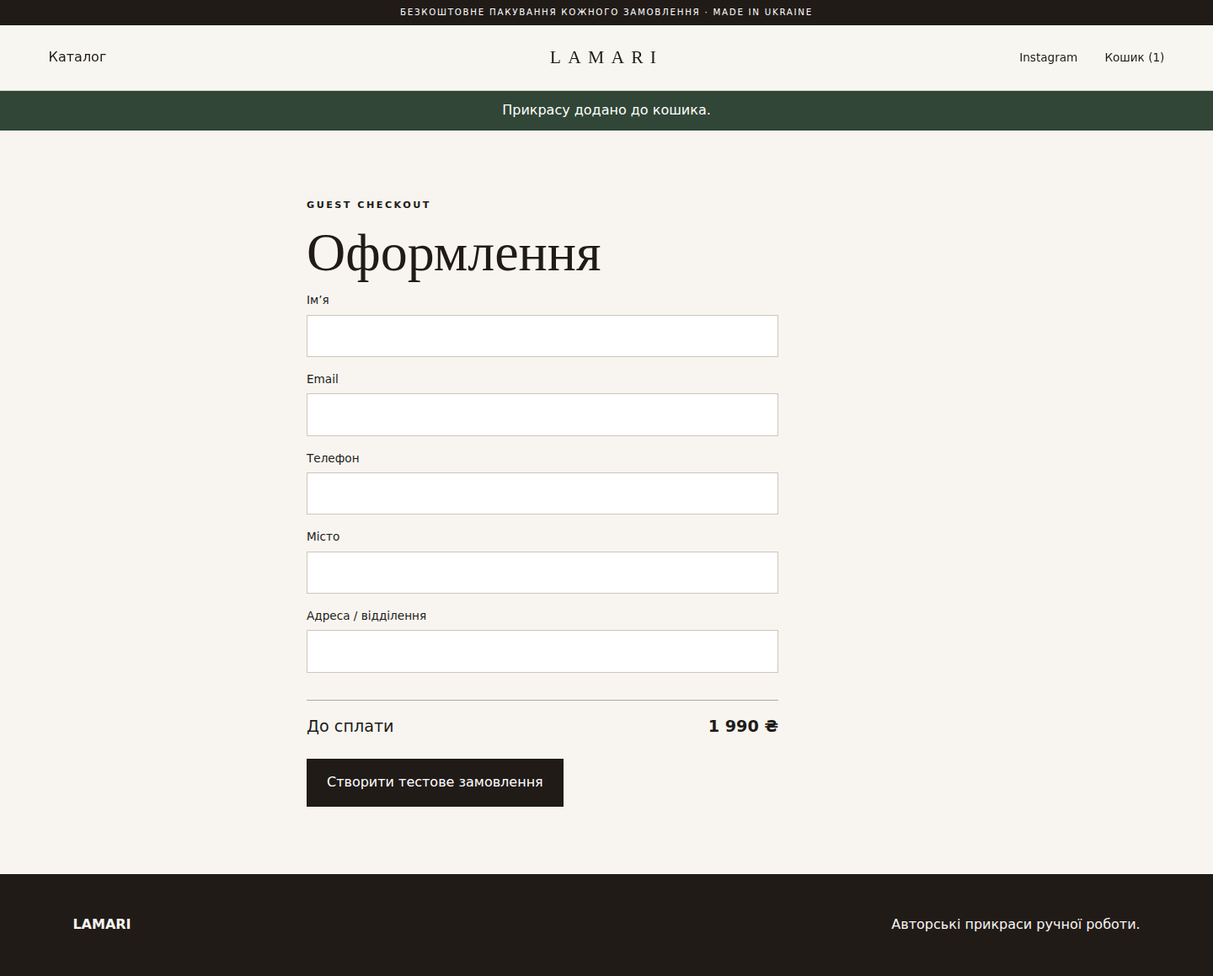
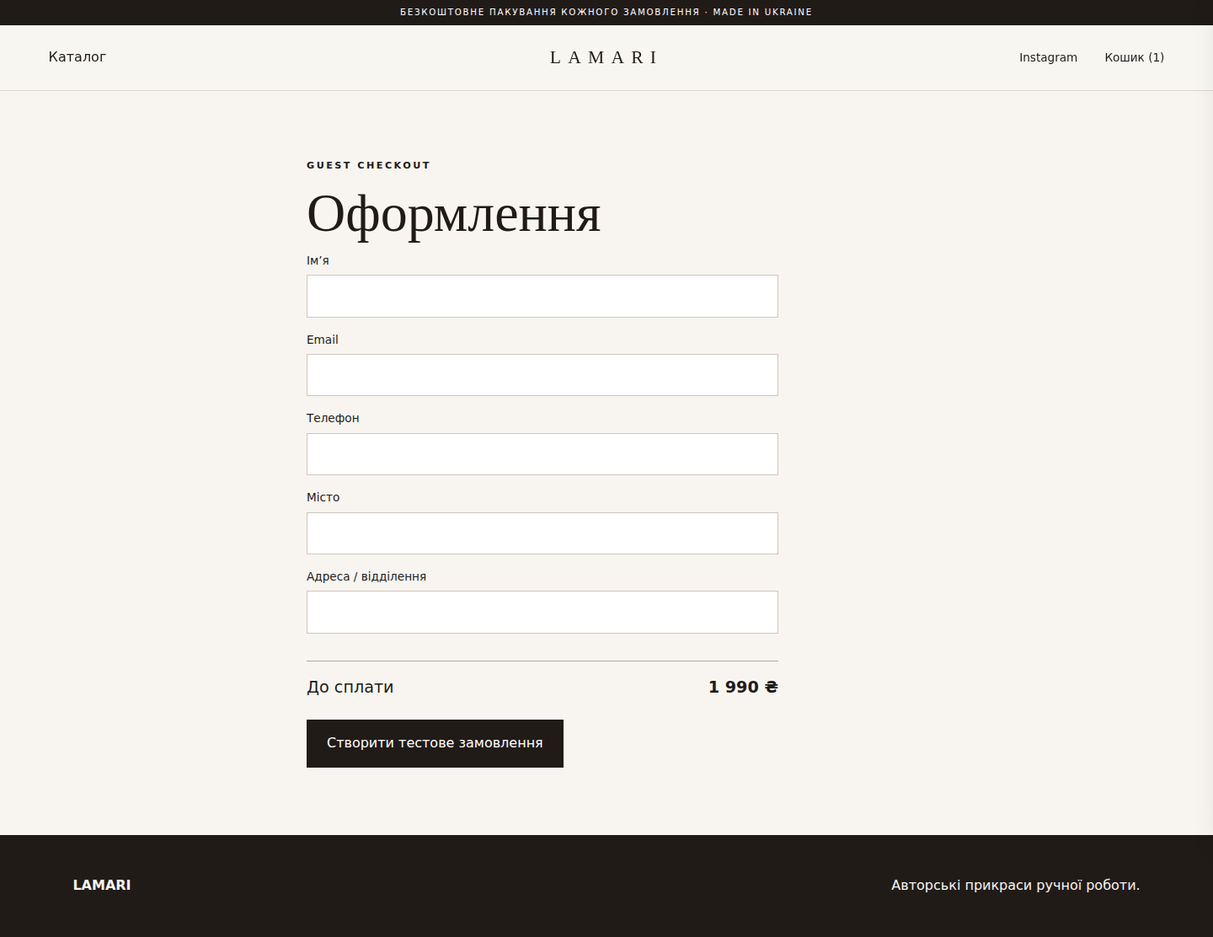
feat: add The Lace-inspired cart drawer

diff --git a/resources/css/app.css b/resources/css/app.css
@@ -1,2 +1,3 @@
 @import "tailwindcss";
 :root{font-family:Inter,system-ui,sans-serif;color:#201b18;background:#f8f5f0;line-height:1.55}*{box-sizing:border-box}body{margin:0}a{color:inherit;text-decoration:none}.ticker{text-align:center;background:#211b18;color:white;padding:.45rem;font-size:.64rem;letter-spacing:.17em}header{height:78px;display:grid;grid-template-columns:1fr auto 1fr;align-items:center;padding:0 4vw;border-bottom:1px solid #ddd4c9;background:#f8f5f0ed;position:sticky;top:0;z-index:20;backdrop-filter:blur(12px)}.brand{font-family:Georgia,serif;letter-spacing:.38em;font-size:1.35rem}.menu-trigger,.drawer-close{border:0;background:transparent;text-align:left;cursor:pointer;font:inherit}nav{display:flex;justify-content:flex-end;gap:2rem;font-size:.85rem}.catalog-drawer{position:fixed;inset:0;background:#f8f5f0;z-index:30;transform:translateY(-105%);transition:.35s ease;overflow:auto;padding:2rem 5vw}.catalog-drawer.open{transform:none}.drawer-close{display:block;margin-left:auto}.drawer-grid{display:grid;grid-template-columns:repeat(4,1fr);gap:3rem;padding:3rem 0}.drawer-grid section{display:flex;flex-direction:column;gap:.45rem;color:#716963}.drawer-title{font:400 1.5rem Georgia,serif;color:#201b18;margin-bottom:.4rem}.hero{min-height:72vh;padding:12vh 8vw;background:linear-gradient(90deg,#e8ded2aa,#e8ded222),url('https://images.unsplash.com/photo-1617038260897-41a1f14a8ca0?w=1800') center/cover}.hero h1,.page-head h1,.narrow h1,.payment h1{font:400 clamp(3rem,7vw,7rem)/.96 Georgia,serif;margin:.25em 0}.hero p{max-width:460px}.lamari-hero{background-image:linear-gradient(90deg,#e8ded2c5,#e8ded211),url('https://images.unsplash.com/photo-1599643478518-a784e5dc4c8f?w=1800')}.eyebrow{font-size:.7rem;letter-spacing:.22em;font-weight:700}.button{display:inline-block;border:0;background:#211b18;color:white;padding:1rem 1.5rem;margin-top:1.5rem;cursor:pointer;font:inherit;text-align:center}.button:disabled{opacity:.5}.section{padding:5rem 6vw}.section-title h2{font:400 2.8rem Georgia,serif}.department-grid{display:grid;grid-template-columns:repeat(3,1fr);border-top:1px solid #cfc6bb}.department{padding:1.4rem .5rem;border-bottom:1px solid #cfc6bb;display:flex;justify-content:space-between;font:400 1.4rem Georgia,serif}.department small{font:400 .75rem Inter,sans-serif;color:#776e67}.brand-story{padding:10rem 6vw;text-align:center;background:#ded3c7}.brand-story h2{font:400 4rem/1.05 Georgia,serif;margin:.4em}.brand-story p:last-child{max-width:520px;margin:auto}.page-head{text-align:center;padding:5rem 1rem 2rem}.page-head h1{font-size:4.5rem}.subcategories{display:flex;gap:.7rem;justify-content:center;flex-wrap:wrap;margin-top:2rem}.subcategories a{border:1px solid #bab0a7;padding:.6rem 1rem}.catalog-tools{display:flex;justify-content:space-between;padding:1rem 5vw;border-block:1px solid #d4cbc2;font-size:.8rem}.catalog-tools button{border:0;background:transparent}.product-catalog{display:grid;grid-template-columns:repeat(3,1fr);gap:1px;background:#d4cbc2}.catalog-card{background:#f8f5f0;padding-bottom:2rem}.catalog-image{position:relative;overflow:hidden}.catalog-image img{width:100%;aspect-ratio:4/5;object-fit:cover;display:block;transition:.5s}.catalog-card:hover img{transform:scale(1.02)}.catalog-card h3,.catalog-card p,.catalog-card small{margin:.8rem 1.2rem 0;display:block}.catalog-card h3{font:400 1.15rem Georgia,serif}.catalog-card small{color:#786f68}.video-badge{position:absolute;left:1rem;bottom:1rem;background:#fff;padding:.35rem .55rem;font-size:.67rem}.empty-category{padding:8rem;text-align:center}.breadcrumbs{padding:1rem 4vw;font-size:.75rem;color:#756c66}.product-lace{display:grid;grid-template-columns:minmax(0,1.45fr) minmax(380px,.55fr);align-items:start}.media-grid{display:grid;grid-template-columns:repeat(2,1fr);gap:2px;background:#ddd4c9}.media-grid figure{margin:0;position:relative;background:#eee8e0}.media-grid img,.media-grid video{width:100%;height:100%;aspect-ratio:4/5;object-fit:cover;display:block}.media-grid .video{grid-column:span 2}.media-grid .video video{aspect-ratio:16/10;background:#181614}.media-label{position:absolute;left:1rem;top:1rem;background:white;padding:.4rem .65rem;font-size:.68rem;text-transform:uppercase;letter-spacing:.15em}.buy-panel{position:sticky;top:110px;padding:4vw;max-height:calc(100vh - 110px);overflow:auto}.buy-panel h1{font:400 2.4rem/1.1 Georgia,serif;margin:.35em 0}.sku{font-size:.75rem;color:#766e67}.in-stock{color:#4b6a4f}.price{font-size:1.25rem;margin:1.5rem 0}.buy-panel label{display:block;font-size:.78rem}.variant-pills{display:flex;gap:.5rem;flex-wrap:wrap;margin-top:.6rem}.variant-pills button{background:transparent;border:1px solid #bdb3aa;padding:.65rem .9rem;cursor:pointer}.variant-pills button.active{background:#211b18;color:white}.buy{width:100%}.product-benefits{display:grid;gap:.4rem;margin:1.5rem 0;font-size:.77rem;color:#6e655e}.product-benefits span:before{content:'✓ ';color:#526b54}.buy-panel details{border-top:1px solid #d6cdc4;padding:1rem 0;font-size:.85rem}.buy-panel summary{cursor:pointer;font-weight:600}.buy-panel dl{display:grid;grid-template-columns:1fr 1fr}.buy-panel dt,.buy-panel dd{margin:0;padding:.4rem 0;border-bottom:1px solid #e6dfd8}.buy-panel dd{text-align:right}.narrow,.payment{max-width:760px;margin:auto;padding:5rem 1.5rem;min-height:65vh}.narrow h1,.payment h1{font-size:4rem}.cart-row{display:grid;grid-template-columns:80px 1fr auto auto;align-items:center;gap:1rem;border-bottom:1px solid #ddd4c9;padding:1rem 0}.cart-row img{width:80px;height:90px;object-fit:cover}.link{border:0;background:transparent;text-decoration:underline;cursor:pointer}.total{display:flex;justify-content:space-between;font-size:1.2rem;margin-top:2rem;padding-top:1rem;border-top:1px solid #aaa}.checkout{max-width:560px}.checkout label{display:flex;flex-direction:column;gap:.4rem;margin-top:1rem;font-size:.85rem}.checkout input{padding:.85rem;border:1px solid #cfc5ba;background:white;font:inherit}.payment{text-align:center}.pay-card{background:white;padding:2rem;display:flex;flex-direction:column;margin:2rem auto;max-width:440px}.pay-card b{font:400 2.4rem Georgia,serif}.notice{background:#314636;color:#fff;text-align:center;padding:.7rem}footer{padding:3rem 6vw;background:#211b18;color:#f8f5f0;display:flex;justify-content:space-between}.empty{padding:3rem;background:white}@media(max-width:800px){.ticker{font-size:.55rem}header{height:65px;padding:0 4vw}.brand{font-size:1rem}nav a:first-child{display:none}.drawer-grid{grid-template-columns:repeat(2,1fr);gap:2rem 1rem}.hero{min-height:68vh;padding:10vh 6vw}.department-grid{grid-template-columns:1fr}.section{padding:3rem 5vw}.brand-story{padding:6rem 5vw}.brand-story h2{font-size:2.8rem}.product-catalog{grid-template-columns:repeat(2,1fr)}.product-lace{grid-template-columns:1fr}.buy-panel{position:static;max-height:none;padding:2rem 5vw}.media-grid{grid-template-columns:1fr 1fr}.breadcrumbs{white-space:nowrap;overflow:auto}.cart-row{grid-template-columns:64px 1fr auto}.cart-row img{width:64px;height:72px}.cart-row .link{grid-column:2}footer{flex-direction:column;gap:.5rem}}
+.cart-trigger{border:0;background:transparent;cursor:pointer;font:inherit}.drawer-backdrop{position:fixed;inset:0;background:#17131080;opacity:0;visibility:hidden;transition:.3s;z-index:39}.drawer-backdrop.open{opacity:1;visibility:visible}.cart-drawer{position:fixed;right:0;top:0;height:100dvh;width:min(520px,100%);background:#f8f5f0;z-index:40;transform:translateX(105%);transition:.35s ease;display:flex;flex-direction:column;box-shadow:-12px 0 40px #0002}.cart-drawer.open{transform:none}.cart-drawer-head{height:88px;padding:0 2rem;display:flex;align-items:center;justify-content:space-between;border-bottom:1px solid #d7cec5}.cart-drawer-head h2{font:400 2rem Georgia,serif}.cart-drawer-head small{font:400 .8rem Inter,sans-serif;color:#777}.cart-drawer-head button,.cart-drawer-empty button,.drawer-item-price button,.qty button{border:0;background:transparent;cursor:pointer}.cart-drawer-body{padding:0 2rem;overflow:auto;flex:1}.drawer-item{display:grid;grid-template-columns:110px 1fr auto;gap:1rem;padding:1.5rem 0;border-bottom:1px solid #ddd4cb}.drawer-item>img{width:110px;height:138px;object-fit:cover}.drawer-item-info{display:flex;flex-direction:column;align-items:flex-start;gap:.45rem}.drawer-item-info>a{font:400 1.1rem/1.25 Georgia,serif}.drawer-item-info small{color:#796f68}.qty{border:1px solid #c9bfb6;display:grid;grid-template-columns:30px 30px 30px;margin-top:auto;height:32px}.qty button,.qty span{display:grid;place-items:center}.drawer-item-price{text-align:right;display:flex;flex-direction:column;justify-content:space-between;font-size:.82rem}.drawer-item-price button{text-decoration:underline;color:#786f68}.cart-drawer-footer{padding:1.3rem 2rem 2rem;border-top:1px solid #d7cec5}.delivery-note{font-size:.75rem;color:#746b64}.drawer-subtotal{display:flex;justify-content:space-between;font-size:1.25rem}.drawer-checkout{display:block;width:100%;margin-top:1rem}.view-cart{display:block;text-align:center;text-decoration:underline;margin-top:1rem;font-size:.85rem}.cart-drawer-empty{margin:auto;text-align:center}.cart-drawer-empty p{font:400 1.5rem Georgia,serif}.cart-drawer-empty button{text-decoration:underline}@media(max-width:600px){.cart-drawer-head{height:72px;padding:0 1.1rem}.cart-drawer-body{padding:0 1.1rem}.drawer-item{grid-template-columns:82px 1fr;position:relative}.drawer-item>img{width:82px;height:105px}.drawer-item-price{grid-column:2;flex-direction:row;text-align:left}.cart-drawer-footer{padding:1rem 1.1rem 1.5rem}}

diff --git a/bootstrap/ssr/assets/StoreLayout-CE_7GqgF.js b/bootstrap/ssr/assets/StoreLayout-CE_7GqgF.js
@@ -1,0 +1,123 @@
+import { createTextVNode, defineComponent, ref, toDisplayString, unref, useSSRContext, watch, withCtx } from "vue";
+import { Link, usePage } from "@inertiajs/vue3";
+import { ssrIncludeBooleanAttr, ssrInterpolate, ssrRenderAttr, ssrRenderClass, ssrRenderComponent, ssrRenderList, ssrRenderSlot } from "vue/server-renderer";
+//#region resources/js/Layouts/StoreLayout.vue?vue&type=script&setup=true&lang.ts
+var StoreLayout_vue_vue_type_script_setup_true_lang_default = /*@__PURE__*/ defineComponent({
+	__name: "StoreLayout",
+	__ssrInlineRender: true,
+	setup(__props) {
+		const page = usePage();
+		const menuOpen = ref(false);
+		const cartOpen = ref(Boolean(page.props.flash?.cartOpen));
+		watch(() => page.props.flash?.cartOpen, (value) => {
+			if (value) cartOpen.value = true;
+		});
+		const money = (amount) => (amount / 100).toLocaleString("uk-UA");
+		const asset = (url) => !url ? "" : url.startsWith("http") ? url : `/storage/${url}`;
+		const itemImage = (item) => asset(item.variant.product.media?.find((m) => m.type === "image")?.url || item.variant.product.image_url);
+		return (_ctx, _push, _parent, _attrs) => {
+			_push(`<!--[--><div class="ticker">БЕЗКОШТОВНЕ ПАКУВАННЯ КОЖНОГО ЗАМОВЛЕННЯ · MADE IN UKRAINE</div><header><button class="menu-trigger">Каталог</button>`);
+			_push(ssrRenderComponent(unref(Link), {
+				href: "/",
+				class: "brand"
+			}, {
+				default: withCtx((_, _push, _parent, _scopeId) => {
+					if (_push) _push(`LAMARI`);
+					else return [createTextVNode("LAMARI")];
+				}),
+				_: 1
+			}, _parent));
+			_push(`<nav><a href="https://www.instagram.com/lamari.jewelry/" target="_blank">Instagram</a><button class="cart-trigger">Кошик (${ssrInterpolate(unref(page).props.cartCount)})</button></nav></header><div class="${ssrRenderClass([{ open: menuOpen.value }, "catalog-drawer"])}"><button class="drawer-close">Закрити ×</button><div class="drawer-grid"><!--[-->`);
+			ssrRenderList(unref(page).props.catalogMenu, (category) => {
+				_push(`<section>`);
+				_push(ssrRenderComponent(unref(Link), {
+					href: `/categories/${category.slug}`,
+					class: "drawer-title"
+				}, {
+					default: withCtx((_, _push, _parent, _scopeId) => {
+						if (_push) _push(`${ssrInterpolate(category.name)}`);
+						else return [createTextVNode(toDisplayString(category.name), 1)];
+					}),
+					_: 2
+				}, _parent));
+				_push(`<!--[-->`);
+				ssrRenderList(category.children, (child) => {
+					_push(ssrRenderComponent(unref(Link), {
+						key: child.id,
+						href: `/categories/${child.slug}`
+					}, {
+						default: withCtx((_, _push, _parent, _scopeId) => {
+							if (_push) _push(`${ssrInterpolate(child.name)}`);
+							else return [createTextVNode(toDisplayString(child.name), 1)];
+						}),
+						_: 2
+					}, _parent));
+				});
+				_push(`<!--]--></section>`);
+			});
+			_push(`<!--]--></div></div><div class="${ssrRenderClass([{ open: cartOpen.value }, "drawer-backdrop"])}"></div><aside class="${ssrRenderClass([{ open: cartOpen.value }, "cart-drawer"])}" aria-label="Кошик"><div class="cart-drawer-head"><h2>Кошик <small>${ssrInterpolate(unref(page).props.cartCount)}</small></h2><button>Закрити ×</button></div>`);
+			if (!unref(page).props.cartPreview.items.length) _push(`<div class="cart-drawer-empty"><p>У кошику ще немає прикрас.</p><button>Перейти до каталогу</button></div>`);
+			else {
+				_push(`<div class="cart-drawer-body"><!--[-->`);
+				ssrRenderList(unref(page).props.cartPreview.items, (item) => {
+					_push(`<article class="drawer-item"><img${ssrRenderAttr("src", itemImage(item))}${ssrRenderAttr("alt", item.variant.product.name)}><div class="drawer-item-info">`);
+					_push(ssrRenderComponent(unref(Link), {
+						href: `/products/${item.variant.product.slug}`,
+						onClick: ($event) => cartOpen.value = false
+					}, {
+						default: withCtx((_, _push, _parent, _scopeId) => {
+							if (_push) _push(`${ssrInterpolate(item.variant.product.name)}`);
+							else return [createTextVNode(toDisplayString(item.variant.product.name), 1)];
+						}),
+						_: 2
+					}, _parent));
+					_push(`<small>${ssrInterpolate(item.variant.name)} · ${ssrInterpolate(item.variant.sku)}</small><div class="qty"><button>−</button><span>${ssrInterpolate(item.quantity)}</span><button${ssrIncludeBooleanAttr(item.quantity >= item.variant.stock_on_hand - item.variant.stock_reserved) ? " disabled" : ""}>+</button></div></div><div class="drawer-item-price"><b>${ssrInterpolate(money(item.total))} ₴</b><button>Видалити</button></div></article>`);
+				});
+				_push(`<!--]--></div>`);
+			}
+			if (unref(page).props.cartPreview.items.length) {
+				_push(`<div class="cart-drawer-footer"><p class="delivery-note">Вартість доставки буде розрахована під час оформлення.</p><div class="drawer-subtotal"><span>Разом</span><b>${ssrInterpolate(money(unref(page).props.cartPreview.subtotal))} ₴</b></div>`);
+				_push(ssrRenderComponent(unref(Link), {
+					href: "/checkout",
+					class: "button drawer-checkout",
+					onClick: ($event) => cartOpen.value = false
+				}, {
+					default: withCtx((_, _push, _parent, _scopeId) => {
+						if (_push) _push(`Оформити замовлення`);
+						else return [createTextVNode("Оформити замовлення")];
+					}),
+					_: 1
+				}, _parent));
+				_push(ssrRenderComponent(unref(Link), {
+					href: "/cart",
+					class: "view-cart",
+					onClick: ($event) => cartOpen.value = false
+				}, {
+					default: withCtx((_, _push, _parent, _scopeId) => {
+						if (_push) _push(`Переглянути кошик`);
+						else return [createTextVNode("Переглянути кошик")];
+					}),
+					_: 1
+				}, _parent));
+				_push(`</div>`);
+			} else _push(`<!---->`);
+			_push(`</aside>`);
+			if (unref(page).props.flash?.success) _push(`<div class="notice">${ssrInterpolate(unref(page).props.flash.success)}</div>`);
+			else _push(`<!---->`);
+			_push(`<main>`);
+			ssrRenderSlot(_ctx.$slots, "default", {}, null, _push, _parent);
+			_push(`</main><footer><b>LAMARI</b><span>Авторські прикраси ручної роботи.</span></footer><!--]-->`);
+		};
+	}
+});
+//#endregion
+//#region resources/js/Layouts/StoreLayout.vue
+var _sfc_setup = StoreLayout_vue_vue_type_script_setup_true_lang_default.setup;
+StoreLayout_vue_vue_type_script_setup_true_lang_default.setup = (props, ctx) => {
+	const ssrContext = useSSRContext();
+	(ssrContext.modules || (ssrContext.modules = /* @__PURE__ */ new Set())).add("resources/js/Layouts/StoreLayout.vue");
+	return _sfc_setup ? _sfc_setup(props, ctx) : void 0;
+};
+var StoreLayout_default = StoreLayout_vue_vue_type_script_setup_true_lang_default;
+//#endregion
+export { StoreLayout_default as t };

diff --git a/resources/js/Layouts/StoreLayout.vue b/resources/js/Layouts/StoreLayout.vue
@@ -1,8 +1,15 @@
 <script setup lang="ts">
-import { Link, usePage } from '@inertiajs/vue3';
-import { ref } from 'vue';
+import { Link, router, usePage } from '@inertiajs/vue3';
+import { ref, watch } from 'vue';
 const page = usePage<any>();
 const menuOpen = ref(false);
+const cartOpen = ref(Boolean(page.props.flash?.cartOpen));
+watch(() => page.props.flash?.cartOpen, value => { if (value) cartOpen.value = true; });
+const money = (amount: number) => (amount / 100).toLocaleString('uk-UA');
+const asset = (url?: string) => !url ? '' : url.startsWith('http') ? url : `/storage/${url}`;
+const itemImage = (item: any) => asset(item.variant.product.media?.find((m:any) => m.type === 'image')?.url || item.variant.product.image_url);
+const setQuantity = (item:any, quantity:number) => router.put(`/cart/${item.variant.id}`, { quantity }, { preserveScroll: true });
+const remove = (item:any) => router.delete(`/cart/${item.variant.id}`, { preserveScroll: true });
 </script>
 
 <template>
@@ -10,17 +17,28 @@ const menuOpen = ref(false);
   <header>
     <button class="menu-trigger" @click="menuOpen = !menuOpen">Каталог</button>
     <Link href="/" class="brand">LAMARI</Link>
-    <nav><a href="https://www.instagram.com/lamari.jewelry/" target="_blank">Instagram</a><Link href="/cart">Кошик ({{ page.props.cartCount }})</Link></nav>
+    <nav><a href="https://www.instagram.com/lamari.jewelry/" target="_blank">Instagram</a><button class="cart-trigger" @click="cartOpen = true">Кошик ({{ page.props.cartCount }})</button></nav>
   </header>
+
   <div class="catalog-drawer" :class="{ open: menuOpen }">
     <button class="drawer-close" @click="menuOpen = false">Закрити ×</button>
-    <div class="drawer-grid">
-      <section v-for="category in page.props.catalogMenu" :key="category.id">
-        <Link :href="`/categories/${category.slug}`" class="drawer-title">{{ category.name }}</Link>
-        <Link v-for="child in category.children" :key="child.id" :href="`/categories/${child.slug}`">{{ child.name }}</Link>
-      </section>
-    </div>
+    <div class="drawer-grid"><section v-for="category in page.props.catalogMenu" :key="category.id"><Link :href="`/categories/${category.slug}`" class="drawer-title">{{ category.name }}</Link><Link v-for="child in category.children" :key="child.id" :href="`/categories/${child.slug}`">{{ child.name }}</Link></section></div>
   </div>
+
+  <div class="drawer-backdrop" :class="{ open: cartOpen }" @click="cartOpen = false"></div>
+  <aside class="cart-drawer" :class="{ open: cartOpen }" aria-label="Кошик">
+    <div class="cart-drawer-head"><h2>Кошик <small>{{ page.props.cartCount }}</small></h2><button @click="cartOpen = false">Закрити ×</button></div>
+    <div v-if="!page.props.cartPreview.items.length" class="cart-drawer-empty"><p>У кошику ще немає прикрас.</p><button @click="cartOpen=false;menuOpen=true">Перейти до каталогу</button></div>
+    <div v-else class="cart-drawer-body">
+      <article v-for="item in page.props.cartPreview.items" :key="item.variant.id" class="drawer-item">
+        <img :src="itemImage(item)" :alt="item.variant.product.name" />
+        <div class="drawer-item-info"><Link :href="`/products/${item.variant.product.slug}`" @click="cartOpen=false">{{ item.variant.product.name }}</Link><small>{{ item.variant.name }} · {{ item.variant.sku }}</small><div class="qty"><button @click="setQuantity(item,item.quantity-1)">−</button><span>{{ item.quantity }}</span><button @click="setQuantity(item,item.quantity+1)" :disabled="item.quantity >= item.variant.stock_on_hand-item.variant.stock_reserved">+</button></div></div>
+        <div class="drawer-item-price"><b>{{ money(item.total) }} ₴</b><button @click="remove(item)">Видалити</button></div>
+      </article>
+    </div>
+    <div v-if="page.props.cartPreview.items.length" class="cart-drawer-footer"><p class="delivery-note">Вартість доставки буде розрахована під час оформлення.</p><div class="drawer-subtotal"><span>Разом</span><b>{{ money(page.props.cartPreview.subtotal) }} ₴</b></div><Link href="/checkout" class="button drawer-checkout" @click="cartOpen=false">Оформити замовлення</Link><Link href="/cart" class="view-cart" @click="cartOpen=false">Переглянути кошик</Link></div>
+  </aside>
+
   <div v-if="page.props.flash?.success" class="notice">{{ page.props.flash.success }}</div>
   <main><slot /></main>
   <footer><b>LAMARI</b><span>Авторські прикраси ручної роботи.</span></footer>

diff --git a/bootstrap/ssr/ssr.js b/bootstrap/ssr/ssr.js
@@ -18,13 +18,13 @@ createServer((page) => createInertiaApp({
 	render: renderToString,
 	title: (t) => t ? `${t} · Lamari` : "Lamari",
 	resolve: (n) => resolvePageComponent(`./Pages/${n}.vue`, /* #__PURE__ */ Object.assign({
-		"./Pages/Cart.vue": () => import("./assets/Cart-BhVctbhQ.js"),
-		"./Pages/Category.vue": () => import("./assets/Category-DUkoOES2.js"),
-		"./Pages/Checkout.vue": () => import("./assets/Checkout-BhxE14qJ.js"),
-		"./Pages/FakePayment.vue": () => import("./assets/FakePayment-BVujCUo4.js"),
-		"./Pages/Home.vue": () => import("./assets/Home-CYhEYQ1E.js"),
-		"./Pages/Product.vue": () => import("./assets/Product-DG_xW6iN.js"),
-		"./Pages/ThankYou.vue": () => import("./assets/ThankYou-CfOpZiz8.js")
+		"./Pages/Cart.vue": () => import("./assets/Cart-BEieztiK.js"),
+		"./Pages/Category.vue": () => import("./assets/Category-Dy6xbbnF.js"),
+		"./Pages/Checkout.vue": () => import("./assets/Checkout-BIBDJtG5.js"),
+		"./Pages/FakePayment.vue": () => import("./assets/FakePayment-CIMIuili.js"),
+		"./Pages/Home.vue": () => import("./assets/Home-DYMcaIpG.js"),
+		"./Pages/Product.vue": () => import("./assets/Product-DCfv2mZY.js"),
+		"./Pages/ThankYou.vue": () => import("./assets/ThankYou-D9TFRYSr.js")
 	})),
 	setup: ({ App, props, plugin }) => createSSRApp({ render: () => h(App, props) }).use(plugin)
 }));

diff --git a/bootstrap/ssr/assets/Product-DCfv2mZY.js b/bootstrap/ssr/assets/Product-DCfv2mZY.js
@@ -1,4 +1,4 @@
-import { t as StoreLayout_default } from "./StoreLayout-3_rn2Txl.js";
+import { t as StoreLayout_default } from "./StoreLayout-CE_7GqgF.js";
 import { Fragment, computed, createBlock, createCommentVNode, createTextVNode, createVNode, defineComponent, openBlock, ref, renderList, resolveDynamicComponent, toDisplayString, unref, useSSRContext, withCtx } from "vue";
 import { Head, Link, useForm } from "@inertiajs/vue3";
 import { ssrIncludeBooleanAttr, ssrInterpolate, ssrRenderAttr, ssrRenderClass, ssrRenderComponent, ssrRenderList, ssrRenderVNode } from "vue/server-renderer";

diff --git a/bootstrap/ssr/assets/Cart-BEieztiK.js b/bootstrap/ssr/assets/Cart-BEieztiK.js
@@ -1,4 +1,4 @@
-import { t as StoreLayout_default } from "./StoreLayout-3_rn2Txl.js";
+import { t as StoreLayout_default } from "./StoreLayout-CE_7GqgF.js";
 import { Fragment, createBlock, createCommentVNode, createTextVNode, createVNode, defineComponent, openBlock, renderList, toDisplayString, unref, useSSRContext, withCtx } from "vue";
 import { Head, Link, router } from "@inertiajs/vue3";
 import { ssrInterpolate, ssrRenderAttr, ssrRenderComponent, ssrRenderList } from "vue/server-renderer";

diff --git a/bootstrap/ssr/assets/Category-Dy6xbbnF.js b/bootstrap/ssr/assets/Category-Dy6xbbnF.js
@@ -1,4 +1,4 @@
-import { t as StoreLayout_default } from "./StoreLayout-3_rn2Txl.js";
+import { t as StoreLayout_default } from "./StoreLayout-CE_7GqgF.js";
 import { Fragment, createBlock, createCommentVNode, createTextVNode, createVNode, defineComponent, openBlock, renderList, toDisplayString, unref, useSSRContext, withCtx } from "vue";
 import { Head, Link } from "@inertiajs/vue3";
 import { ssrInterpolate, ssrRenderAttr, ssrRenderComponent, ssrRenderList } from "vue/server-renderer";

diff --git a/bootstrap/ssr/assets/Checkout-BIBDJtG5.js b/bootstrap/ssr/assets/Checkout-BIBDJtG5.js
@@ -1,4 +1,4 @@
-import { t as StoreLayout_default } from "./StoreLayout-3_rn2Txl.js";
+import { t as StoreLayout_default } from "./StoreLayout-CE_7GqgF.js";
 import { createTextVNode, createVNode, defineComponent, toDisplayString, unref, useSSRContext, vModelText, withCtx, withDirectives, withModifiers } from "vue";
 import { Head, useForm } from "@inertiajs/vue3";
 import { ssrIncludeBooleanAttr, ssrInterpolate, ssrRenderAttr, ssrRenderComponent } from "vue/server-renderer";

diff --git a/bootstrap/ssr/assets/Home-DYMcaIpG.js b/bootstrap/ssr/assets/Home-DYMcaIpG.js
@@ -1,4 +1,4 @@
-import { t as StoreLayout_default } from "./StoreLayout-3_rn2Txl.js";
+import { t as StoreLayout_default } from "./StoreLayout-CE_7GqgF.js";
 import { Fragment, createBlock, createTextVNode, createVNode, defineComponent, openBlock, renderList, toDisplayString, unref, useSSRContext, withCtx } from "vue";
 import { Head, Link } from "@inertiajs/vue3";
 import { ssrInterpolate, ssrRenderComponent, ssrRenderList } from "vue/server-renderer";

diff --git a/bootstrap/ssr/assets/ThankYou-D9TFRYSr.js b/bootstrap/ssr/assets/ThankYou-D9TFRYSr.js
@@ -1,4 +1,4 @@
-import { t as StoreLayout_default } from "./StoreLayout-3_rn2Txl.js";
+import { t as StoreLayout_default } from "./StoreLayout-CE_7GqgF.js";
 import { createTextVNode, createVNode, defineComponent, toDisplayString, unref, useSSRContext, withCtx } from "vue";
 import { Head, Link } from "@inertiajs/vue3";
 import { ssrInterpolate, ssrRenderComponent } from "vue/server-renderer";

diff --git a/bootstrap/ssr/assets/FakePayment-CIMIuili.js b/bootstrap/ssr/assets/FakePayment-CIMIuili.js
@@ -1,4 +1,4 @@
-import { t as StoreLayout_default } from "./StoreLayout-3_rn2Txl.js";
+import { t as StoreLayout_default } from "./StoreLayout-CE_7GqgF.js";
 import { createVNode, defineComponent, toDisplayString, unref, useSSRContext, withCtx } from "vue";
 import { Head, useForm } from "@inertiajs/vue3";
 import { ssrInterpolate, ssrRenderComponent } from "vue/server-renderer";

diff --git a/app/Http/Middleware/HandleInertiaRequests.php b/app/Http/Middleware/HandleInertiaRequests.php
@@ -3,6 +3,7 @@
 namespace App\Http\Middleware;
 
 use App\Models\Category;
+use App\Services\CartService;
 use Illuminate\Http\Request;
 use Inertia\Middleware;
 
@@ -12,10 +13,23 @@ class HandleInertiaRequests extends Middleware
 
     public function share(Request $request): array
     {
+        $cart = app(CartService::class);
+
         return [
             ...parent::share($request),
             'cartCount' => collect($request->session()->get('cart', []))->sum('quantity'),
-            'flash' => ['success' => fn () => $request->session()->get('success')],
+            'flash' => [
+                'success' => fn () => $request->session()->get('success'),
+                'cartOpen' => fn () => (bool) $request->session()->get('cartOpen'),
+            ],
+            'cartPreview' => function () use ($cart) {
+                $items = $cart->items();
+
+                return [
+                    'items' => $items,
+                    'subtotal' => collect($items)->sum('total'),
+                ];
+            },
             'catalogMenu' => fn () => Category::whereNull('parent_id')->where('is_active', true)
                 ->with(['children' => fn ($query) => $query->where('is_active', true)])
                 ->get(['id', 'parent_id', 'name', 'slug']),
